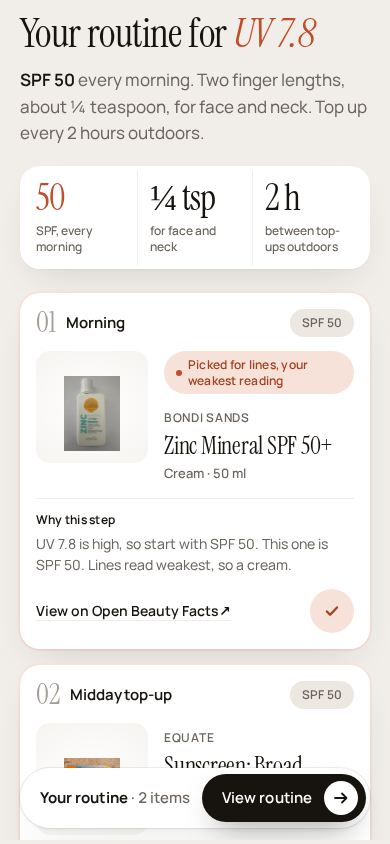
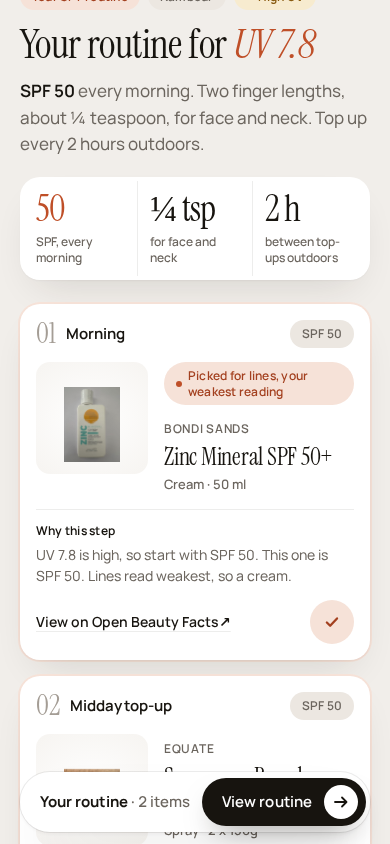
paused and error e2e, fresh screenshots

diff --git a/e2e/paused.spec.ts b/e2e/paused.spec.ts
@@ -1,0 +1,108 @@
+import { mkdirSync } from "node:fs";
+import { expect, test, type Page } from "@playwright/test";
+import { errors as errorCopy, result as copy, upload } from "../lib/copy";
+
+// F19: when YouCam is out of units, POST /api/future answers 200 with the demo result, `paused: true` and the
+// insufficient_units notice. Every POST here is stubbed: nothing reaches YouCam.
+
+mkdirSync("docs/screenshots", { recursive: true });
+
+function collectErrors(page: Page, ignore: RegExp[] = []) {
+  const errors: string[] = [];
+  page.on("console", (msg) => {
+    if (msg.type() === "error" && !ignore.some((re) => re.test(msg.text()))) errors.push(`console: ${msg.text()}`);
+  });
+  page.on("pageerror", (err) => errors.push(`pageerror: ${err.message}`));
+  return errors;
+}
+
+async function fillAndSubmit(page: Page) {
+  await page.goto("/");
+  await page.getByLabel(upload.file).setInputFiles("e2e/fixtures/wide-selfie.jpg");
+  await expect(page.locator("main").getByRole("status").first()).toHaveText(upload.cropDone, { timeout: 20_000 });
+  await page.getByLabel(upload.city).fill("Lisbon");
+  await page.getByRole("button", { name: upload.submit }).click();
+}
+
+const viewports = [
+  { name: "1440", width: 1440, height: 900 },
+  { name: "390", width: 390, height: 844 },
+] as const;
+
+for (const vp of viewports) {
+  test.describe(`out of units at ${vp.width}`, () => {
+    test.use({ viewport: { width: vp.width, height: vp.height } });
+
+    test("a paused run shows the demo face, a 'Live renders paused' pill and one honest line", async ({ page, request }) => {
+      const errors = collectErrors(page);
+      const demo = await (await request.get("/api/future?city=Lisbon")).json();
+      const notice = errorCopy.insufficient_units;
+      await page.route("**/api/future", (route) =>
+        route.request().method() === "POST"
+          ? route.fulfill({ json: { ...demo, paused: true, notice } })
+          : route.continue(),
+      );
+      await fillAndSubmit(page);
+
+      const result = page.getByTestId("upload-result");
+      await expect(result).toBeVisible();
+      const head = result.locator("header").first();
+      await expect(head.getByText(copy.eyebrow.demo, { exact: true })).toBeVisible(); // still says it is the demo face
+      const pill = head.getByText(copy.eyebrow.paused, { exact: true });
+      await expect(pill).toBeVisible();
+      await expect(result.getByRole("status").filter({ hasText: notice })).toBeVisible();
+      expect(notice).toMatch(/demo face/i);
+      expect(notice).not.toMatch(/\.\s+\S/); // one sentence
+
+      await page.evaluate(() => document.fonts.ready);
+      expect(await page.evaluate(() => document.documentElement.scrollWidth - document.documentElement.clientWidth)).toBe(0);
+      // the result header with a little canvas above it (the submit scrolls it flush to the top)
+      // (instant: the page scrolls smoothly, and a shot taken mid-animation lands anywhere)
+      // re-aim until the header stays put (late layout or a running scroll can still move it)
+      await expect
+        .poll(() =>
+          head.evaluate(async (el) => {
+            window.scrollTo({ top: el.getBoundingClientRect().top + window.scrollY - 32, behavior: "instant" });
+            await new Promise((r) => setTimeout(r, 300));
+            return Math.round(el.getBoundingClientRect().top);
+          }),
+        )
+        .toBe(32);
+      await page.screenshot({ path: `docs/screenshots/paused-${vp.name}.png`, animations: "disabled" });
+      expect(errors).toEqual([]);
+    });
+
+    test("a failed submit focuses the error, scrolls it into view and links to the demo face", async ({ page }) => {
+      // the stubbed 503 itself is logged by the browser; nothing else may be
+      const errors = collectErrors(page, [/503/]);
+      await page.route("**/api/future", (route) =>
+        route.request().method() === "POST"
+          ? route.fulfill({ status: 503, json: { error: { kind: "server_busy", message: errorCopy.server_busy } } })
+          : route.continue(),
+      );
+      await fillAndSubmit(page);
+
+      const alert = page.locator("main").getByRole("alert");
+      await expect(alert).toContainText(errorCopy.server_busy);
+      await expect(alert).toBeFocused();
+      await expect(alert).toBeInViewport();
+      // let the smooth scroll to centre finish before the shot
+      await expect
+        .poll(() =>
+          alert.evaluate((el) => {
+            const r = el.getBoundingClientRect();
+            return Math.abs(r.top + r.height / 2 - innerHeight / 2);
+          }),
+        )
+        .toBeLessThan(40);
+      await page.screenshot({ path: `test-results/paused-error-${vp.name}.png`, animations: "disabled" });
+
+      const link = alert.getByRole("link", { name: upload.demoLink });
+      await expect(link).toHaveAttribute("href", "/result");
+      await link.click();
+      await expect(page).toHaveURL(/\/result$/);
+      await expect(page.getByTestId("face-now")).toBeVisible();
+      expect(errors).toEqual([]);
+    });
+  });
+}
